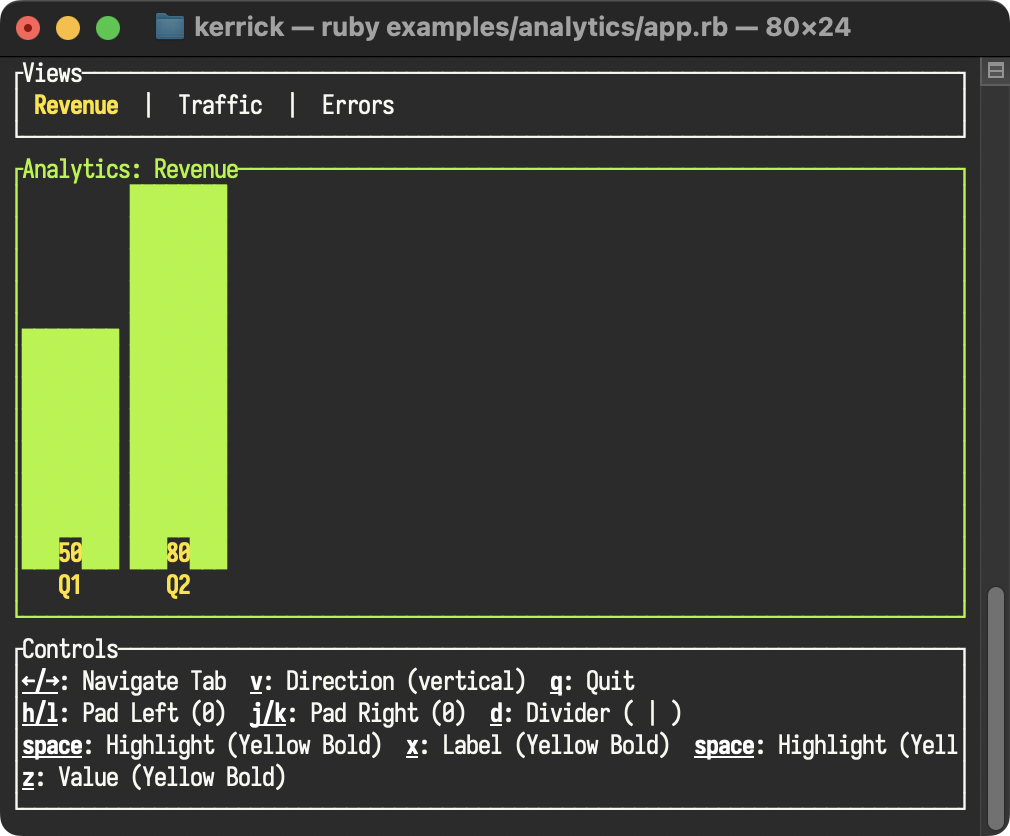
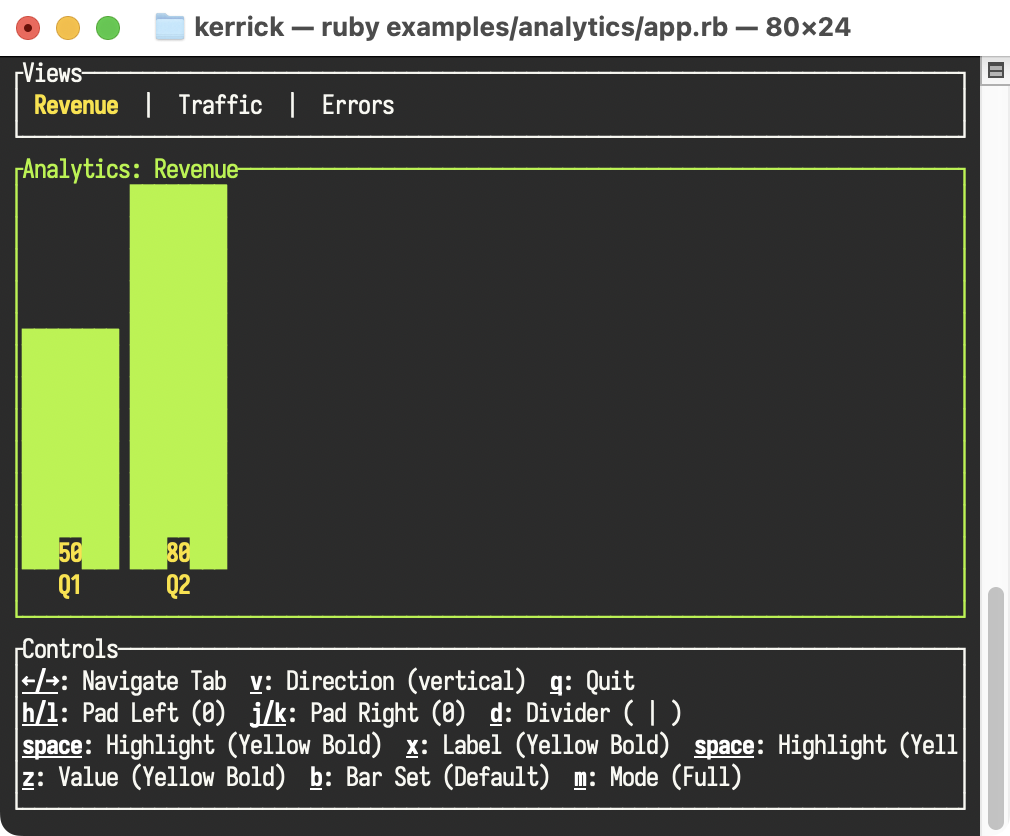
feat(barchart): add support for custom bar characters via bar_set
Expose the `bar_set` property from the underlying Ratatui widget, enabling
customization of the characters used to render the bars in a `BarChart`
widget (e.g. for using different unicode block sets or ASCII).

The Ruby API `bar_set` supports both a Hash (with symbolic or numeric keys)
and an Array of strings to specify the characters for the 8 levels of bar
height (empty to full).

Generated with [Antigravity](https://antigravity.google)

Changed region(s): [[0.0, 0.0, 1.0, 1.0], [0.3069, 0.9019, 0.7366, 0.9641]]

diff --git a/examples/analytics/app.rb b/examples/analytics/app.rb
@@ -34,6 +34,14 @@ class AnalyticsApp
     @direction = :vertical
     @label_style_index = 0
     @value_style_index = 0
+    @bar_sets = [
+      { name: "Default", set: nil },
+      { name: "Numbers (Short)", set: { 8 => "8", 7 => "7", 6 => "6", 5 => "5", 4 => "4", 3 => "3", 2 => "2", 1 => "1", 0 => "0" } },
+      { name: "Letters (Long)", set: { full: "H", seven_eighths: "G", three_quarters: "F", five_eighths: "E", half: "D", three_eighths: "C", one_quarter: "B", one_eighth: "A", empty: " " } },
+      { name: "ASCII (Array)", set: [" ", ".", ":", "-", "+", "*", "#", "%", "@"] }
+    ]
+    @bar_set_index = 0
+    @height_mode = :full # :full or :mini
 
     @hotkey_style = RatatuiRuby::Style.new(modifiers: [:bold, :underlined])
   end
@@ -43,7 +51,6 @@ class AnalyticsApp
       loop do
         render
         break if handle_input == :quit
-        sleep 0.05
       end
     end
   end
@@ -65,6 +72,33 @@ class AnalyticsApp
                 when 0 then RatatuiRuby::Style.new(fg: "green")
                 when 1 then RatatuiRuby::Style.new(fg: "blue")
                 when 2 then RatatuiRuby::Style.new(fg: "red")
+    end
+
+    # Define the BarChart widget
+    bar_chart = RatatuiRuby::BarChart.new(
+      data:,
+      bar_width: @direction == :vertical ? 8 : 1,
+      style: bar_style,
+      direction: @direction,
+      label_style: @styles[@label_style_index][:style],
+      value_style: @styles[@value_style_index][:style],
+      bar_set: @bar_sets[@bar_set_index][:set],
+      block: RatatuiRuby::Block.new(
+        title: "Analytics: #{@tabs[@selected_tab]}",
+        borders: [:all]
+      )
+    )
+
+    # Wrap chart in a layout to control height if in mini mode
+    chart_area = if @height_mode == :mini
+       # Height 3: 1 row content + 2 borders
+       RatatuiRuby::Layout.new(
+         direction: :vertical,
+         constraints: [RatatuiRuby::Constraint.length(3), RatatuiRuby::Constraint.fill(1)],
+         children: [bar_chart, RatatuiRuby::Block.new] # Empty block to fill rest
+       )
+    else
+      bar_chart
     end
 
     # Build the UI
@@ -93,18 +127,7 @@ class AnalyticsApp
               padding_left: @padding_left,
               padding_right: @padding_right
             ),
-            RatatuiRuby::BarChart.new(
-              data:,
-              bar_width: @direction == :vertical ? 8 : 1,
-              style: bar_style,
-              direction: @direction,
-              label_style: @styles[@label_style_index][:style],
-              value_style: @styles[@value_style_index][:style],
-              block: RatatuiRuby::Block.new(
-                title: "Analytics: #{@tabs[@selected_tab]}",
-                borders: [:all]
-              )
-            ),
+            chart_area
           ]
         ),
         # Bottom control panel
@@ -146,7 +169,11 @@ class AnalyticsApp
                 # Line 4: More Styles
                 RatatuiRuby::Text::Line.new(spans: [
                   RatatuiRuby::Text::Span.new(content: "z", style: @hotkey_style),
-                  RatatuiRuby::Text::Span.new(content: ": Value (#{@styles[@value_style_index][:name]})")
+                  RatatuiRuby::Text::Span.new(content: ": Value (#{@styles[@value_style_index][:name]})  "),
+                  RatatuiRuby::Text::Span.new(content: "b", style: @hotkey_style),
+                  RatatuiRuby::Text::Span.new(content: ": Bar Set (#{@bar_sets[@bar_set_index][:name]})  "),
+                  RatatuiRuby::Text::Span.new(content: "m", style: @hotkey_style),
+                  RatatuiRuby::Text::Span.new(content: ": Mode (#{@height_mode == :full ? 'Full' : 'Mini'})")
                 ])
               ]
             )
@@ -186,6 +213,10 @@ class AnalyticsApp
       @label_style_index = (@label_style_index + 1) % @styles.size
     in type: :key, code: "z"
       @value_style_index = (@value_style_index + 1) % @styles.size
+    in type: :key, code: "b"
+      @bar_set_index = (@bar_set_index + 1) % @bar_sets.size
+    in type: :key, code: "m"
+      @height_mode = @height_mode == :full ? :mini : :full
     else
       # Ignore other events
     end

diff --git a/lib/ratatui_ruby/schema/bar_chart.rb b/lib/ratatui_ruby/schema/bar_chart.rb
@@ -19,7 +19,7 @@ module RatatuiRuby
     #     bar_width: 5,
     #     style: Style.new(fg: :green)
     #   )
-    class BarChart < Data.define(:data, :bar_width, :bar_gap, :max, :style, :block, :direction, :label_style, :value_style)
+    class BarChart < Data.define(:data, :bar_width, :bar_gap, :max, :style, :block, :direction, :label_style, :value_style, :bar_set)
       ##
       # :attr_reader: data
       # The dataset relative to category labels.
@@ -56,28 +56,79 @@ module RatatuiRuby
       # :attr_reader: value_style
       # Style for the bar values (optional).
 
+      ##
+      # :attr_reader: bar_set
+      # Custom characters for the bars (optional).
+      #
+      # A Hash with keys defining the characters for the bars.
+      # Keys: <tt>:empty</tt>, <tt>:one_eighth</tt>, <tt>:one_quarter</tt>, <tt>:three_eighths</tt>, <tt>:half</tt>, <tt>:five_eighths</tt>, <tt>:three_quarters</tt>, <tt>:seven_eighths</tt>, <tt>:full</tt>.
+      #
+      # You can also use integers (0-8) as keys, where 0 is empty, 4 is half, and 8 is full.
+      #
+      # Alternatively, you can pass an Array of 9 strings, where index 0 is empty and index 8 is full.
+      #
+      # === Examples
+      #
+      #   bar_set: {
+      #     empty: " ",
+      #     one_eighth: " ",
+      #     one_quarter: "▂",
+      #     three_eighths: "▃",
+      #     half: "▄",
+      #     five_eighths: "▅",
+      #     three_quarters: "▆",
+      #     seven_eighths: "▇",
+      #     full: "█"
+      #   }
+      #
+      #   # Numeric keys (0-8)
+      #   bar_set: {
+      #     0 => " ", 1 => " ", 2 => "▂", 3 => "▃", 4 => "▄", 5 => "▅", 6 => "▆", 7 => "▇", 8 => "█"
+      #   }
+      #
+      #   # Array (9 items)
+      #   bar_set: [" ", " ", "▂", "▃", "▄", "▅", "▆", "▇", "█"]
+      
+      BAR_KEYS = %i[empty one_eighth one_quarter three_eighths half five_eighths three_quarters seven_eighths full].freeze
+
       # Creates a new BarChart widget.
       #
       # [data]
-      #   Hash of { "Label" => Integer }.
+      #   Data to display. Hash or Array of arrays.
       # [bar_width]
-      #   Width in cells (Integer, default: 3).
+      #   Width of each bar (Integer).
       # [bar_gap]
-      #   Gap in cells (Integer, default: 1).
+      #   Gap between bars (Integer).
       # [max]
-      #   Max Y value (Integer, optional).
+      #   Maximum value of the bar chart (Integer).
       # [style]
-      #   Style object for the bars (optional).
+      #   Base style for the widget (Style).
       # [block]
-      #   Block wrapper (optional).
+      #   Block to render around the chart (Block).
       # [direction]
-      #   Direction of the bars (:vertical or :horizontal, default: :vertical).
+      #   Direction of the bars (:vertical or :horizontal).
       # [label_style]
       #   Style object for labels (optional).
       # [value_style]
       #   Style object for values (optional).
-      def initialize(data:, bar_width: 3, bar_gap: 1, max: nil, style: nil, block: nil, direction: :vertical, label_style: nil, value_style: nil)
-        super
+      # [bar_set]
+      #   Hash or Array: Custom characters for the bars.
+      def initialize(data:, bar_width: 3, bar_gap: 1, max: nil, style: nil, block: nil, direction: :vertical, label_style: nil, value_style: nil, bar_set: nil)
+        if bar_set
+          if bar_set.is_a?(Array) && bar_set.size == 9
+            # Convert Array to Hash using BAR_KEYS order
+            bar_set = BAR_KEYS.zip(bar_set).to_h
+          else
+            bar_set = bar_set.dup
+            # Normalize numeric keys (0-8) to symbolic keys
+            BAR_KEYS.each_with_index do |key, i|
+              if val = bar_set.delete(i) || bar_set.delete(i.to_s)
+                bar_set[key] = val
+              end
+            end
+          end
+        end
+        super(data: data, bar_width: bar_width, bar_gap: bar_gap, max: max, style: style, block: block, direction: direction, label_style: label_style, value_style: value_style, bar_set: bar_set)
       end
     end
 end

diff --git a/ext/ratatui_ruby/src/style.rs b/ext/ratatui_ruby/src/style.rs
@@ -121,6 +121,39 @@ pub fn parse_border_set<'a>(set_val: Value, bump: &'a Bump) -> Result<symbols::b
     Ok(set)
 }
 
+pub fn parse_bar_set<'a>(set_val: Value, bump: &'a Bump) -> Result<symbols::bar::Set<'a>, Error> {
+    let ruby = magnus::Ruby::get().unwrap();
+    let hash = magnus::RHash::from_value(set_val).ok_or_else(|| {
+        Error::new(ruby.exception_type_error(), "expected hash for bar_set")
+    })?;
+
+    let get_char = |key: &str| -> Result<Option<&'a str>, Error> {
+        let mut val: Value = hash.lookup(ruby.to_symbol(key)).unwrap_or_else(|_| ruby.qnil().as_value());
+        if val.is_nil() {
+            val = hash.lookup(ruby.str_new(key)).unwrap_or_else(|_| ruby.qnil().as_value());
+        }
+        if val.is_nil() {
+            Ok(None)
+        } else {
+            let s: String = val.funcall("to_s", ())?;
+            Ok(Some(bump.alloc_str(&s)))
+        }
+    };
+
+    let mut set = symbols::bar::Set::default();
+    if let Some(s) = get_char("empty")? { set.empty = s; }
+    if let Some(s) = get_char("one_eighth")? { set.one_eighth = s; }
+    if let Some(s) = get_char("one_quarter")? { set.one_quarter = s; }
+    if let Some(s) = get_char("three_eighths")? { set.three_eighths = s; }
+    if let Some(s) = get_char("half")? { set.half = s; }
+    if let Some(s) = get_char("five_eighths")? { set.five_eighths = s; }
+    if let Some(s) = get_char("three_quarters")? { set.three_quarters = s; }
+    if let Some(s) = get_char("seven_eighths")? { set.seven_eighths = s; }
+    if let Some(s) = get_char("full")? { set.full = s; }
+
+    Ok(set)
+}
+
 pub fn parse_block(block_val: Value, bump: &Bump) -> Result<Block<'_>, Error> {
     if block_val.is_nil() { return Ok(Block::default()); }
 

diff --git a/ext/ratatui_ruby/src/widgets/barchart.rs b/ext/ratatui_ruby/src/widgets/barchart.rs
@@ -1,7 +1,7 @@
 // SPDX-FileCopyrightText: 2025 Kerrick Long <me@kerricklong.com>
 // SPDX-License-Identifier: AGPL-3.0-or-later
 
-use crate::style::{parse_block, parse_style};
+use crate::style::{parse_block, parse_style, parse_bar_set};
 use bumpalo::Bump;
 use magnus::{prelude::*, Error, Symbol, Value};
 use ratatui::{layout::{Direction, Rect}, widgets::BarChart, Frame};
@@ -17,6 +17,7 @@ pub fn render(frame: &mut Frame, area: Rect, node: Value) -> Result<(), Error> {
     let direction_sym: Symbol = node.funcall("direction", ())?;
     let label_style_val: Value = node.funcall("label_style", ())?;
     let value_style_val: Value = node.funcall("value_style", ())?;
+    let bar_set_val: Value = node.funcall("bar_set", ())?;
 
     let keys: magnus::RArray = data_val.funcall("keys", ())?;
     let mut labels = Vec::new();
@@ -69,6 +70,10 @@ pub fn render(frame: &mut Frame, area: Rect, node: Value) -> Result<(), Error> {
 
     if !value_style_val.is_nil() {
         bar_chart = bar_chart.value_style(parse_style(value_style_val)?);
+    }
+
+    if !bar_set_val.is_nil() {
+        bar_chart = bar_chart.bar_set(parse_bar_set(bar_set_val, &bump)?);
     }
 
     frame.render_widget(bar_chart, area);

diff --git a/lib/ratatui_ruby/schema/block.rb b/lib/ratatui_ruby/schema/block.rb
@@ -101,9 +101,6 @@ module RatatuiRuby
       #
       # Providing this overrides <tt>border_type</tt>.
       #
-      # <b>Performance Note:</b> Each unique character string used in a border set is interned
-      # (permanently stored in memory) to satisfy backend requirements. While negligible for
-      # typical usage, avoid dynamically generating infinite variations of border characters.
       #
       # === Example
       #

diff --git a/examples/box_demo/app.rb b/examples/box_demo/app.rb
@@ -20,8 +20,7 @@ class BoxDemoApp
     @border_type_index = 0
 
     # Custom Border Sets
-    # NOTE: We define these ONCE in initialize to avoid creating new Hashes/Strings in the render loop.
-    # While RatatuiRuby interns strings, best practice is to reuse objects.
+    # NOTE: We define these ONCE in initialize for efficiency.
     @border_sets = [
       { name: "None", set: nil },
       { name: "Digits (Short)", set: {

diff --git a/CHANGELOG.md b/CHANGELOG.md
@@ -16,6 +16,10 @@ This project adheres to [Semantic Versioning](https://semver.org/spec/v2.0.0.htm
 
 - **Draw Command API**: Custom widgets now return an array of `Draw` commands instead of writing to a buffer. Use `RatatuiRuby::Draw.string(x, y, string, style)` and `RatatuiRuby::Draw.cell(x, y, cell)` to create draw commands. This eliminates use-after-free bugs by keeping all pointers inside Rust while Ruby works with pure data objects. **Breaking:** The `render` method signature changed from `render(area, buffer)` to `render(area)`.
 
+#### BarChart Widget
+
+- `bar_set`: Customize bar characters (digits, symbols, blocks).
+
 #### Block Widget
 
 - `border_type`: Customize border style (`:plain`, `:rounded`, `:double`, `:thick`, `:quadrant_inside`, `:quadrant_outside`).
@@ -209,3 +213,4 @@ This project adheres to [Semantic Versioning](https://semver.org/spec/v2.0.0.htm
 [0.3.0]: https://git.sr.ht/~kerrick/ratatui_ruby/compare/v0.2.0...v0.3.0
 [0.2.0]: https://git.sr.ht/~kerrick/ratatui_ruby/compare/v0.1.0...v0.2.0
 [0.1.0]: https://git.sr.ht/~kerrick/ratatui_ruby/tree/v0.1.0
+

diff --git a/doc/quickstart.md b/doc/quickstart.md
@@ -125,7 +125,7 @@ To see more complex layouts and widget usage, check out the `examples/` director
 
 ### [Analytics](https://git.sr.ht/~kerrick/ratatui_ruby/tree/main/item/examples/analytics/app.rb)
 
-Demonstrates the use of `Tabs` and `BarChart` widgets with a simple data-switching mechanism. Features custom highlight styles, base styles, and dividers for the tabs, as well as toggling the `BarChart::direction` between vertical and horizontal, and customizing `BarChart::label_style` (x) and `BarChart::value_style` (z).
+Demonstrates the use of `Tabs` and `BarChart` widgets with a simple data-switching mechanism. Features custom highlight styles, base styles, and dividers for the tabs, as well as toggling the `BarChart::direction` between vertical and horizontal, customizing `BarChart::label_style` (x) and `BarChart::value_style` (z), cycling through custom `BarChart::bar_set` (b), and toggling the view mode between Full and Mini height (m).
 
 ![analytics](./images/analytics.png)
 

diff --git a/doc/contributors/gap_analysis_0.30.md b/doc/contributors/gap_analysis_0.30.md
@@ -206,7 +206,7 @@ Note: Table widths support all constraints (`:length`, `:percentage`, `:min`, `:
 | `bar_style()` | `style:` | ✅ (mapped) |
 | `value_style()` | `value_style:` | ✅ |
 | `label_style()` | `label_style:` | ✅ |
-| `bar_set()` | — | ❌ **MISSING** |
+| `bar_set()` | `bar_set:` | ✅ |
 | `group_gap()` | — | ❌ **MISSING** |
 | `direction()` | `direction:` | ✅ |
 | Grouped bar charts | — | ❌ **MISSING** (BarGroup API) |
